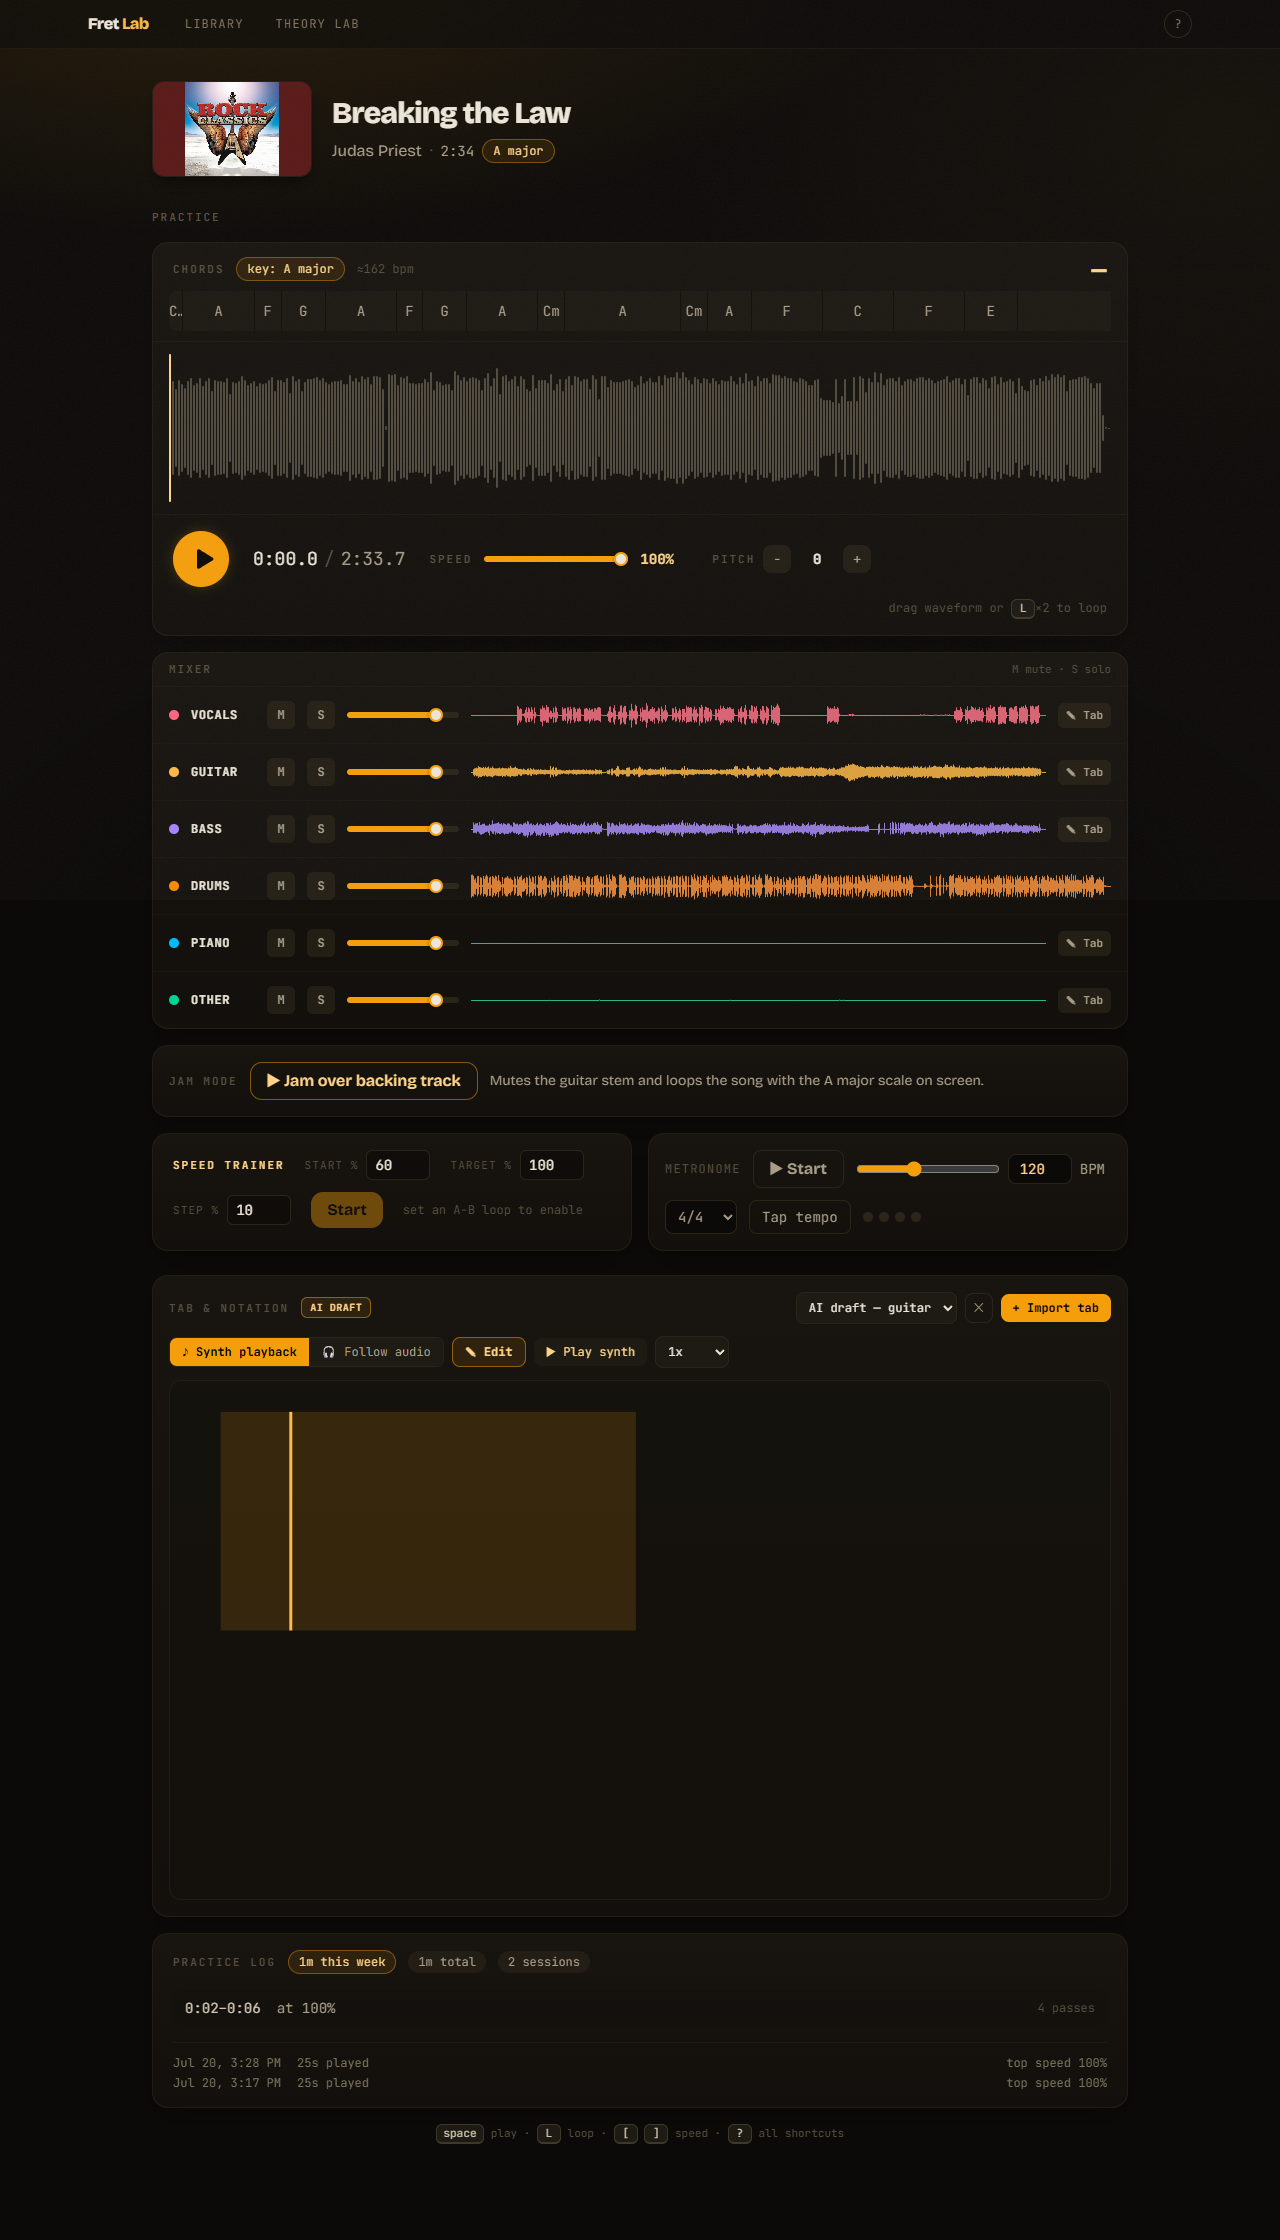
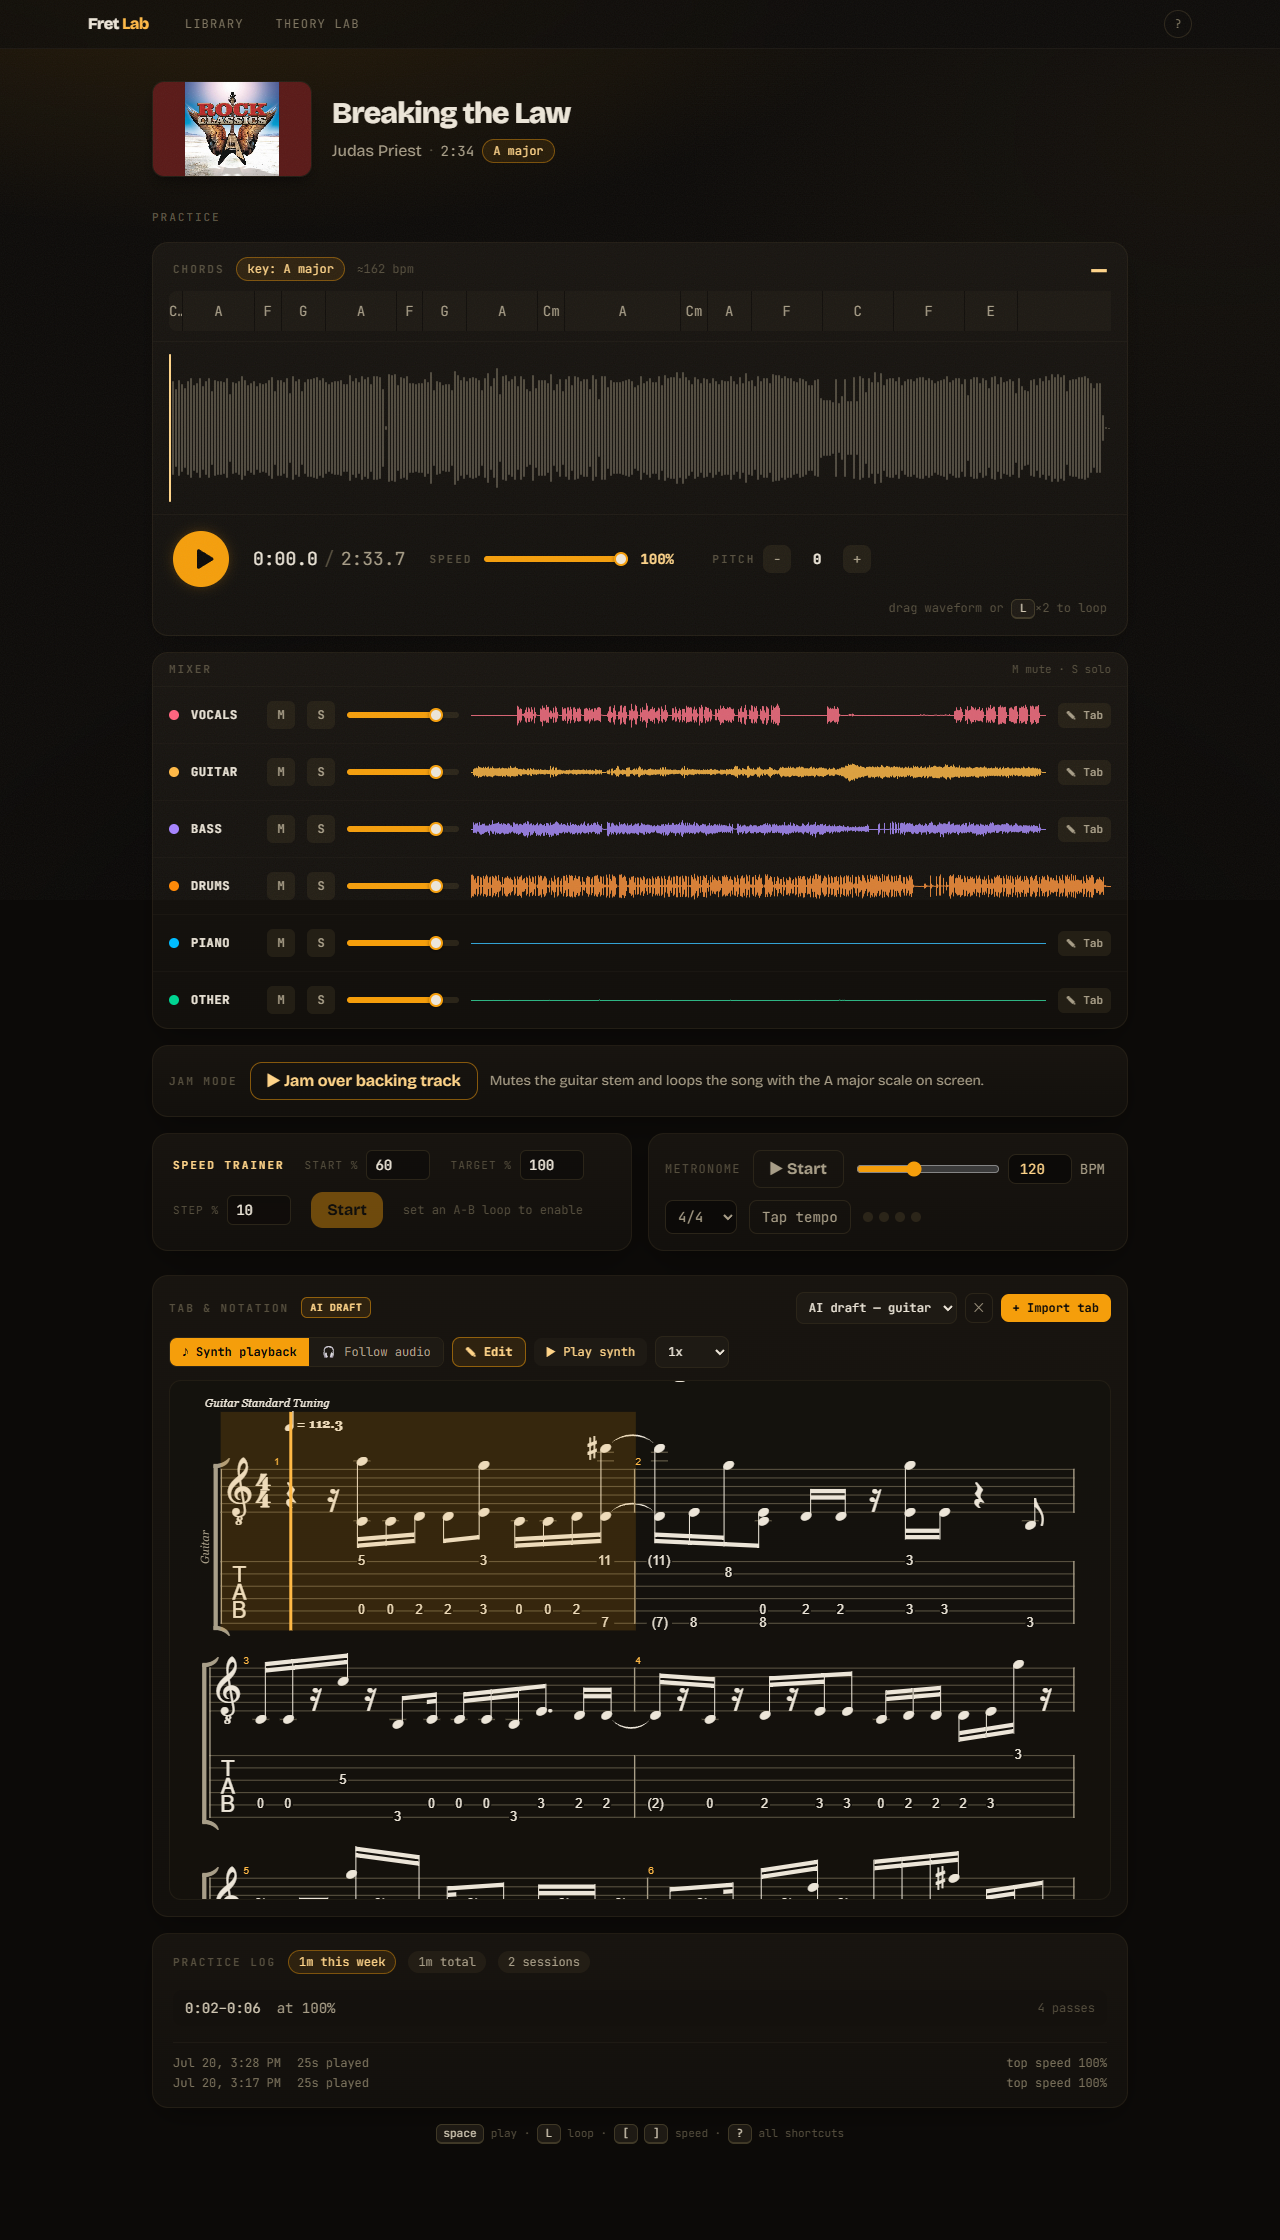
Fix cold-load score rendering; final after-workspace shot
AlphaTab's lazy chunk loading never painted the score on a fresh page load
(layout completed but zero render chunks reached the DOM inside our scroll
container) — masked until now because demos always reached the tab through
interactive flows. Render eagerly (enableLazyLoading = false).

Changed region(s): [[0.1562, 0.625, 0.8438, 0.8438]]

diff --git a/frontend/src/tab/TabViewer.tsx b/frontend/src/tab/TabViewer.tsx
@@ -120,6 +120,10 @@ export function TabViewer({
     settings.core.file = fileUrl
     settings.core.logLevel = alphaTab.LogLevel.Warning
     settings.core.includeNoteBounds = true // note-level hit testing for the editor
+    // lazy chunk loading leaves the score unpainted on cold page loads (the
+    // visibility tracking never fires inside our scroll container) — render
+    // everything eagerly; scores are a few thousand px tall at most
+    settings.core.enableLazyLoading = false
     // the vite plugin's font auto-detection fails in dev — pin Bravura explicitly
     settings.core.smuflFontSources = new Map([[alphaTab.FontFileFormat.Woff2, bravuraWoff2Url]])
     settings.player.playerMode =